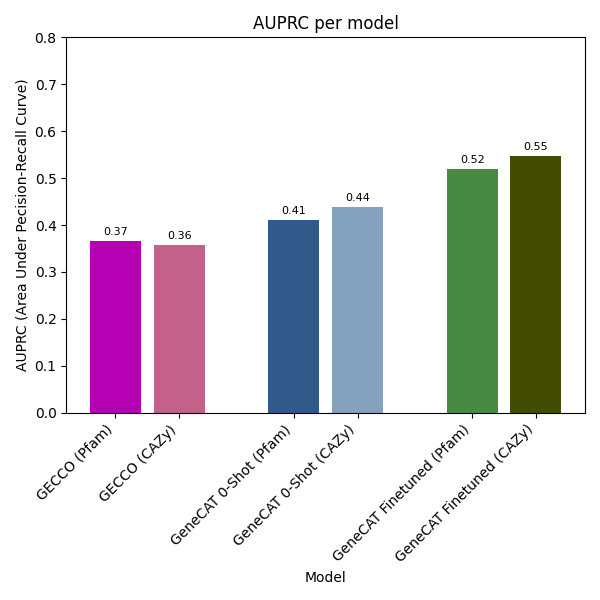
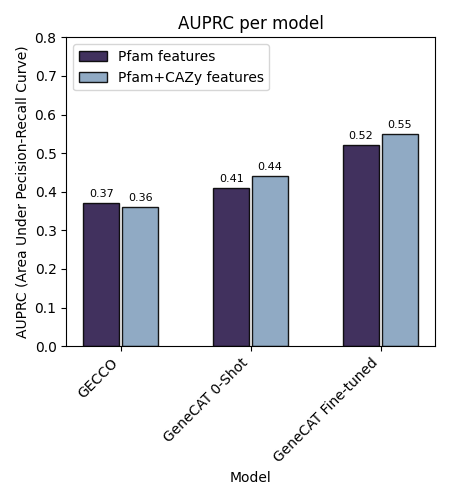
improve figures

Changed region(s): [[0.0, 0.03, 0.9956, 0.99], [0.28, 0.3, 0.6533, 0.93]]

diff --git a/src/scripts/visualization/evaluate_predictions.py b/src/scripts/visualization/evaluate_predictions.py
@@ -9,7 +9,7 @@ from matplotlib_venn import venn3
 from tqdm import tqdm
 from visualization_utilities import PredictionEvaluator, get_bins
 import altair_upset as au
-from viz_data import model_names, model_names_masked, model_colors, model_names_features
+from viz_data import model_names, model_names_masked, model_colors, model_names_features, Cork_7, Bold_10, Bilbao_5, Buda_4
 
 def get_evaluators(all_models, k=7, aggregate=False):
     return [
@@ -55,48 +55,65 @@ def generate_upset_plot(all_models, model_class):
 
 def barplot_features(all_models, model_names_dict=model_names_features):
     # list of evaluators for all models
-    evaluators = get_evaluators(all_models)
-    fig_bar, ax_bar = plt.subplots(1, 1, figsize=(6, 6))
+#    evaluators = get_evaluators(all_models)
+    fig_bar, ax_bar = plt.subplots(1, 1, figsize=(4.5, 5))
     ax_bar.set_xlabel("Model")
     ax_bar.set_ylabel("AUPRC (Area Under Pecision-Recall Curve)")
     ax_bar.set_title("AUPRC per model")
     auprc_exp = []
 
-    for i, model_evaluator in enumerate(evaluators):
-        current_model_name = model_names_dict.get(all_models[i])
+#    for i, model_evaluator in enumerate(evaluators):
+#        current_model_name = model_names_dict.get(all_models[i])
         # aggregate all folds
-        model_evaluator.aggregate_all_folds()
-        # evaluate predictions on cryptic puls
-        auprc_e, auprc_cr, auprc_b = model_evaluator.test_cryptic_puls("all")
+#        model_evaluator.aggregate_all_folds()
+        # evaluate predictions
+#        auprc_e, auprc_cr, auprc_b = model_evaluator.test_cryptic_puls("all")
         # save auprc scores
-        auprc_exp.append(auprc_e)
+#        auprc_exp.append(auprc_e)
 
-    # plot bar plot of auprc scores
-    models = [model_names_dict.get(e.model_name) for e in evaluators]
-    colors = [model_colors.get(e.model_name) for e in evaluators]
-    n = len(models)
-    auprc = auprc_exp
-    # group size = 2 models per group
-    group_size = 2
-    gap = 0.8  # visual spacing between groups
-    x = []
-    group_centers = []
-    pos = 0
-    for i in range(0, n, group_size):
-        group = list(range(i, min(i + group_size, n)))
-        group_pos = [pos + j for j in range(len(group))]
+    models = ["GECCO", "GeneCAT 0-Shot", "GeneCAT Fine-tuned"]
+    auprc_exp = [0.37, 0.36, 0.41, 0.44, 0.52, 0.55]
+    features = ["Pfam features", "Pfam+CAZy features"]
+    colors = [Cork_7[0], Cork_7[2]]
 
-        x.extend(group_pos)
-        group_centers.append(np.mean(group_pos))
+    for i in range(len(features)):
+        scores = auprc_exp[i::2]  # get scores for current feature set
+        x = np.arange(len(models))
+        bars = ax_bar.bar(x + (i-0.5)*0.3, scores, width=0.28, label=features[i], color=colors[i], edgecolor="black", alpha=0.9)
+        ax_bar.bar_label(bars, fmt="%.2f", padding=3, fontsize=8)
 
-        pos += len(group) + gap
-
-    x = np.array(x)
-    bars = ax_bar.bar(x, auprc, color=colors)
-    ax_bar.bar_label(bars, fmt="%.2f", padding=3, fontsize=8)
-    ax_bar.set_ylim(0, 0.8)
     ax_bar.set_xticks(x)
     ax_bar.set_xticklabels(models, rotation=45, ha="right")
+    ax_bar.set_ylim(0, 0.8)
+    ax_bar.legend(loc="upper left")
+
+    # n = len(models)
+    # auprc = auprc_exp
+    # # group size = 2 models per group
+    # group_size = 2
+    # gap = 1.1  # visual spacing between groups
+    # x = []
+    # group_centers = []
+    # pos = 0
+    # for i in range(0, n, group_size):
+    #     group = list(range(i, min(i + group_size, n)))
+    #     group_pos = [pos + j for j in range(len(group))]
+    #     x.extend(group_pos)
+    #     group_centers.append(np.mean(group_pos))
+    #     pos += len(group) + gap
+
+    # x = np.array(x)
+    # bars = ax_bar.bar(x, auprc, color=colors, label=labels, edgecolor="black")
+    # ax_bar.bar_label(bars, fmt="%.2f", padding=3, fontsize=8)
+    # ax_bar.set_ylim(0, 0.8)
+    # ax_bar.set_xticks(x)
+    # ax_bar.set_xticklabels(models, rotation=45, ha="right")
+
+    # ax_bar.legend(
+    #     handles=[plt.Rectangle((0,0),1,1, color=Cork_7[2], edgecolor="black"), plt.Rectangle((0,0),1,1, color=Cork_7[0], edgecolor="black")],
+    #     labels=["Pfam features", "Pfam+CAZy features"],
+    #     loc="upper left"
+    # )
 
     fig_bar.tight_layout()
     fig_bar.savefig("results/plots/aggregated/barplot_features.png")

diff --git a/src/scripts/visualization/features_exploration.py b/src/scripts/visualization/features_exploration.py
@@ -1,27 +1,44 @@
 import polars
 from matplotlib_venn import venn2
 import matplotlib.pyplot as plt
+from viz_data import Cork_7
 
-cols = ["protein_id", "domain"]
+cols = ["protein_id", "domain", "sequence_id"]
 features_pfam = polars.read_parquet("src/data/genecat_output/pfam.features.parquet").select(cols).with_columns(polars.lit("pfam").alias("feature"))
 features_cazy = polars.read_parquet("src/data/genecat_output/dbcan.features.parquet").select(cols).with_columns(polars.lit("cazy").alias("feature"))
+selected_sequences = (
+    polars.read_csv("src/data/data_collection/clusters_deduplicated_cblaster.tsv", separator="\t", infer_schema_length=600)
+    .select("sequence_id")
+    .unique()
+)
 
-genes_cazy = set(features_cazy.select("protein_id").to_series())
-genes_pfam = set(features_pfam.select("protein_id").to_series())
+genes_cazy = set(features_cazy.join(selected_sequences, on="sequence_id", how="semi").select("protein_id").to_series())
+genes_pfam = set(features_pfam.join(selected_sequences, on="sequence_id", how="semi").select("protein_id").to_series())
 only_cazy = polars.DataFrame({"protein_id":list(genes_cazy - genes_pfam)})
 cazy_only_domains = features_cazy.join(only_cazy, on="protein_id", how="semi")
 print(cazy_only_domains.select("domain").to_series().value_counts().sort(by="count"))
 
-fig, ax = plt.subplots()
+fig, ax = plt.subplots(figsize=(5, 5))
 # plot overlap
 v = venn2(
     [genes_pfam, genes_cazy], 
-    set_labels=('Pfam', 'CAZy'), 
-    ax=ax
+    set_labels=(f'Pfam\n(n={len(genes_pfam)})', f'CAZy\n(n={len(genes_cazy)})'),
+    set_colors=(Cork_7[0], Cork_7[1]),
+    ax=ax,
+    alpha=0.9
 )
+for patch in v.patches:
+    patch.set_edgecolor("white")
+    patch.set_linewidth(0.5)
+
 for t in v.set_labels + v.subset_labels:
     if t:
-        t.set_fontsize(9)
+        t.set_fontsize(10)
+        if t.get_text() == "1304":
+            t.set_position((t.get_position()[0]+0.065, t.get_position()[1]))
+        if "CAZy" in t.get_text():
+            t.set_position((t.get_position()[0]+0.1, t.get_position()[1]))
 
-ax.set_title("Overlap in Pfam and CAZy annotations for each gene")
+ax.set_title("Overlap in proteins with Pfam and/or CAZy annotations", fontsize=12, pad=2)
+fig.tight_layout()
 fig.savefig("results/plots/feature_venn.png")
